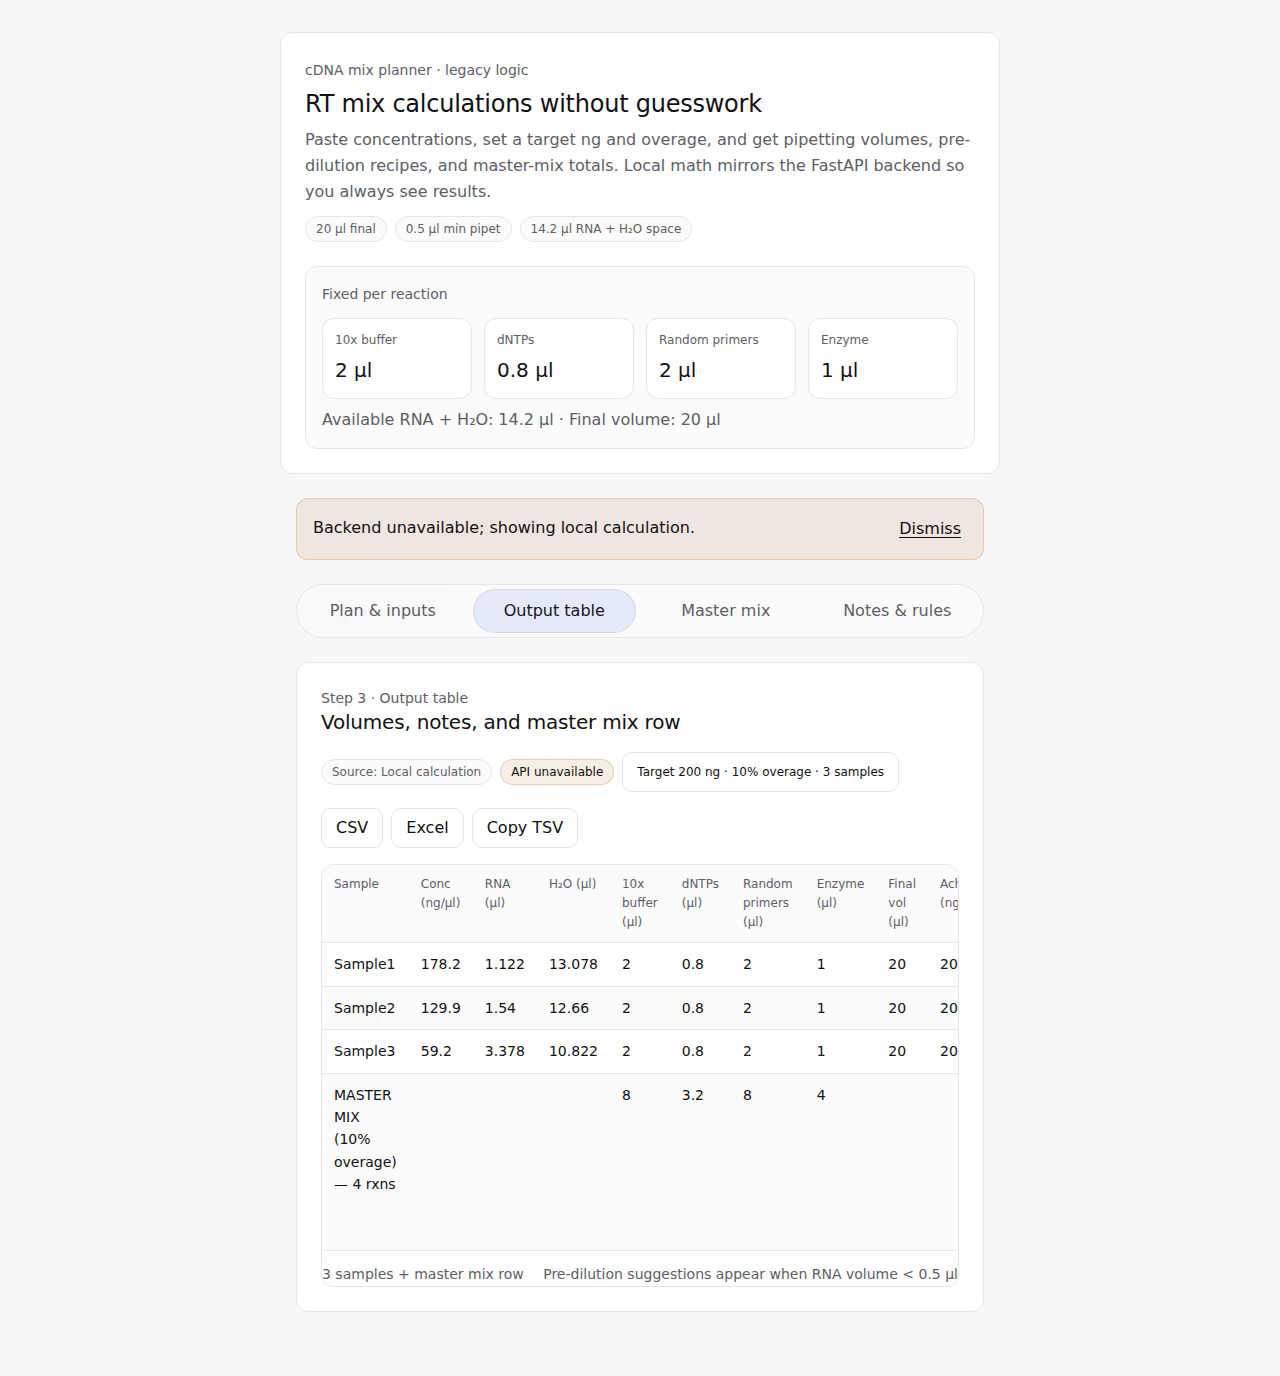
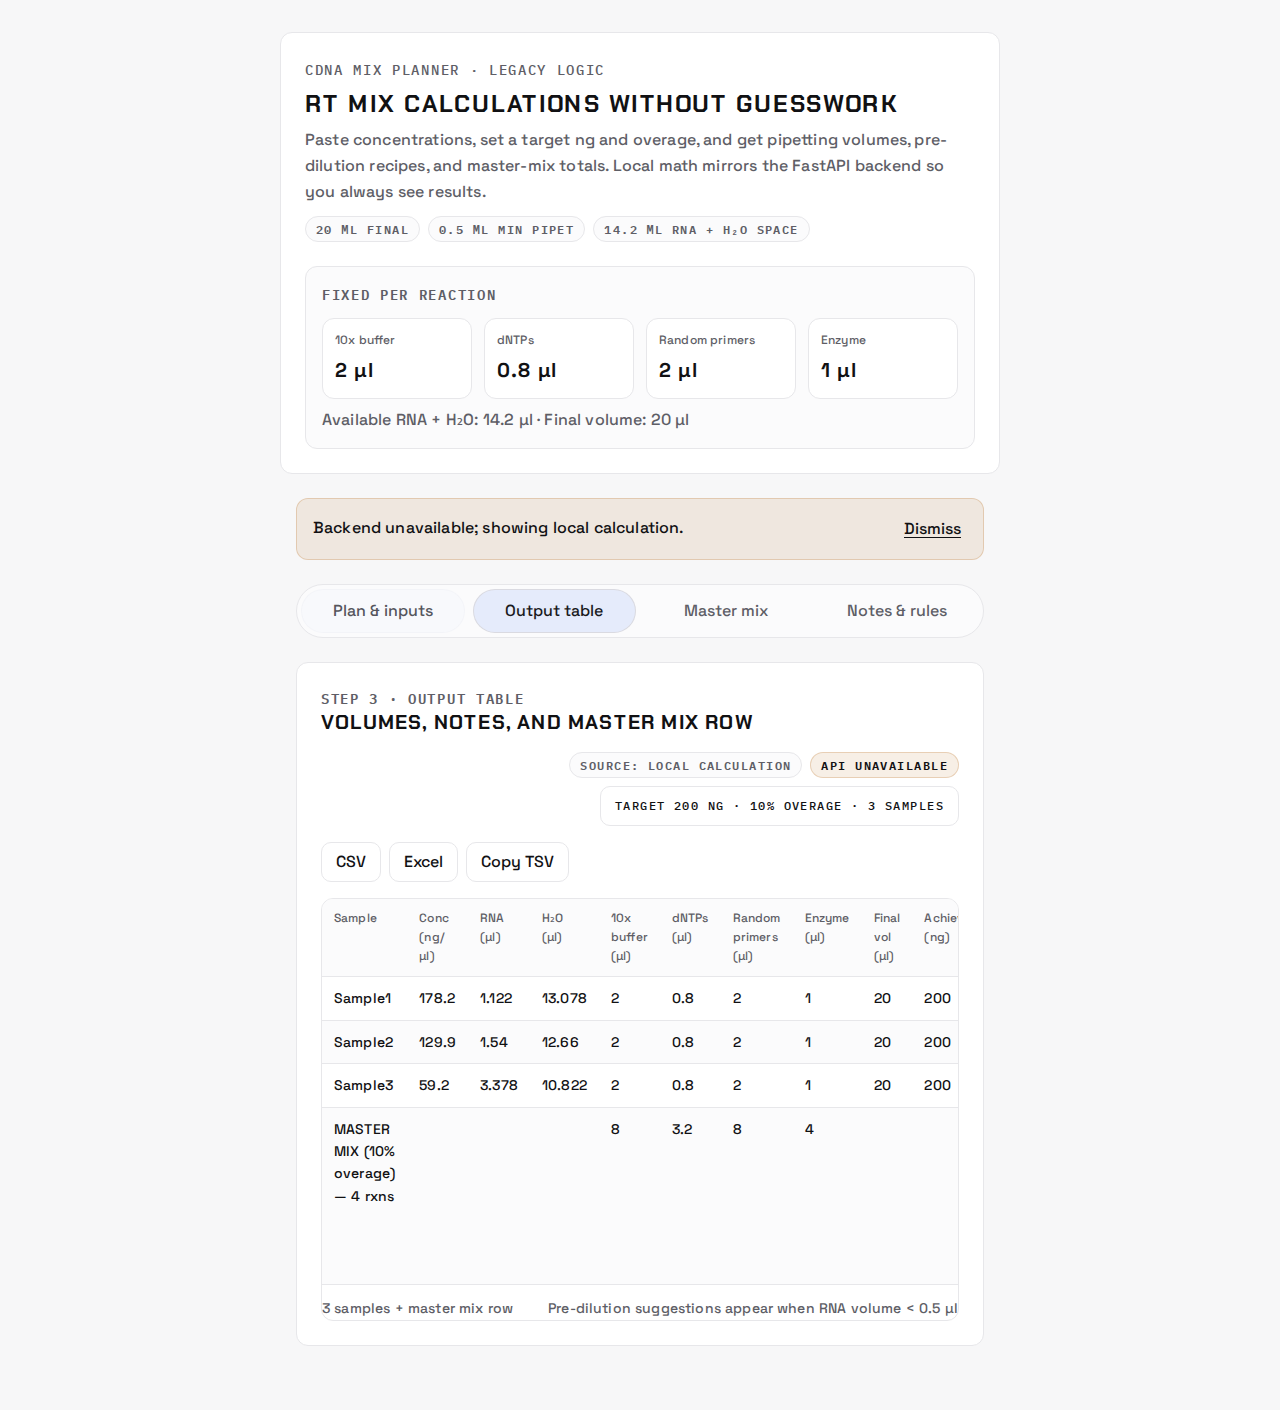
feat: neo-brutal typography refresh

diff --git a/modern-app/src/App.css b/modern-app/src/App.css
@@ -28,8 +28,9 @@
   margin: 0;
   font-size: 24px;
   line-height: 1.25;
-  letter-spacing: -0.01em;
-  font-weight: 500;
+  letter-spacing: var(--tracking-display);
+  font-weight: 700;
+  text-transform: uppercase;
 }
 
 .hero .tag {
@@ -39,6 +40,9 @@
   font-size: 14px;
   color: var(--text-2);
   margin-bottom: var(--s-2);
+  font-family: var(--font-mono);
+  letter-spacing: var(--tracking-label);
+  text-transform: uppercase;
 }
 
 .lede {
@@ -64,9 +68,12 @@
   border: 1px solid var(--border);
   background: var(--surface-2);
   color: var(--text-2);
-  font-weight: 500;
+  font-weight: 600;
   font-size: 12px;
   line-height: 1;
+  font-family: var(--font-mono);
+  letter-spacing: var(--tracking-label);
+  text-transform: uppercase;
 }
 
 .pill.ghost {
@@ -117,14 +124,18 @@
   margin-top: var(--s-1);
   color: var(--text);
   font-size: 20px;
-  font-weight: 500;
+  font-weight: 700;
+  letter-spacing: var(--tracking-display);
 }
 
 .kicker {
   font-size: 14px;
-  font-weight: 500;
+  font-weight: 600;
   color: var(--text-2);
   margin: 0;
+  font-family: var(--font-mono);
+  letter-spacing: var(--tracking-label);
+  text-transform: uppercase;
 }
 
 .muted {
@@ -168,8 +179,9 @@
   margin: 0;
   font-size: 20px;
   line-height: 1.35;
-  letter-spacing: -0.01em;
-  font-weight: 500;
+  letter-spacing: var(--tracking-display);
+  font-weight: 700;
+  text-transform: uppercase;
 }
 
 .tabs {

diff --git a/modern-app/src/index.css b/modern-app/src/index.css
@@ -1,3 +1,5 @@
+@import url("https://fonts.googleapis.com/css2?family=Chakra+Petch:wght@500;600;700&family=IBM+Plex+Mono:wght@400;500;600&family=Space+Grotesk:wght@400;500;600;700&display=swap");
+
 :root {
   --bg: #f7f7f8;
   --surface: #ffffff;
@@ -24,8 +26,13 @@
 
   --shadow-1: 0 1px 2px rgba(0, 0, 0, 0.06);
 
-  --font-sans: Inter, system-ui, -apple-system, Segoe UI, Roboto, Arial, sans-serif;
-  --font-mono: ui-monospace, SFMono-Regular, Menlo, Monaco, Consolas, "Liberation Mono", monospace;
+  --font-display: "Chakra Petch", "Space Grotesk", system-ui, sans-serif;
+  --font-body: "Space Grotesk", system-ui, sans-serif;
+  --font-sans: var(--font-body);
+  --font-mono: "IBM Plex Mono", ui-monospace, SFMono-Regular, Menlo, Monaco, Consolas, "Liberation Mono", monospace;
+
+  --tracking-display: 0.06em;
+  --tracking-label: 0.12em;
 
   --content-max: 720px;
   --t-fast: 140ms ease-out;
@@ -122,6 +129,19 @@ body {
   color: var(--text);
   font-size: 16px;
   line-height: 1.6;
+  font-weight: 500;
+  letter-spacing: 0.01em;
+}
+
+h1,
+h2,
+h3,
+h4,
+h5 {
+  font-family: var(--font-display);
+  font-weight: 700;
+  text-transform: uppercase;
+  letter-spacing: var(--tracking-display);
 }
 
 a {

diff --git a/modern-app/tests/e2e.spec.ts b/modern-app/tests/e2e.spec.ts
@@ -8,6 +8,9 @@ test('example cDNA calculation flow', async ({ page }) => {
   await page.getByTestId('calculate-btn').click()
 
   await fs.mkdir('screenshots', { recursive: true })
+  await page.waitForTimeout(500)
+  await page.screenshot({ path: 'screenshots/example_run.png', fullPage: true })
+  await page.screenshot({ path: 'screenshots/plan_view.png', fullPage: true })
   await page.screenshot({ path: 'screenshots/plan_tab.png', fullPage: true })
 
   await page.getByRole('button', { name: 'Output table' }).click()

diff --git a/README.md b/README.md
@@ -2,7 +2,7 @@
 
 Modern React + FastAPI app. Paste sample concentrations, set a target ng, and get per-sample RNA/H₂O volumes, pre-dilution guidance when pipet volumes are too small, and master-mix totals. CSV/Excel export and clipboard copy are built in. Playwright E2E drives the bundled example and regenerates the screenshot. Legacy notes (if any) are in `LEGACY.md`.
 
-Latest UI (refreshed Dec 1, 2025 via `npm run test:e2e`):
+Latest UI (refreshed Dec 25, 2025 via `npm run test:e2e`):
 
 | Plan | Output | Master mix | Notes |
 | --- | --- | --- | --- |
